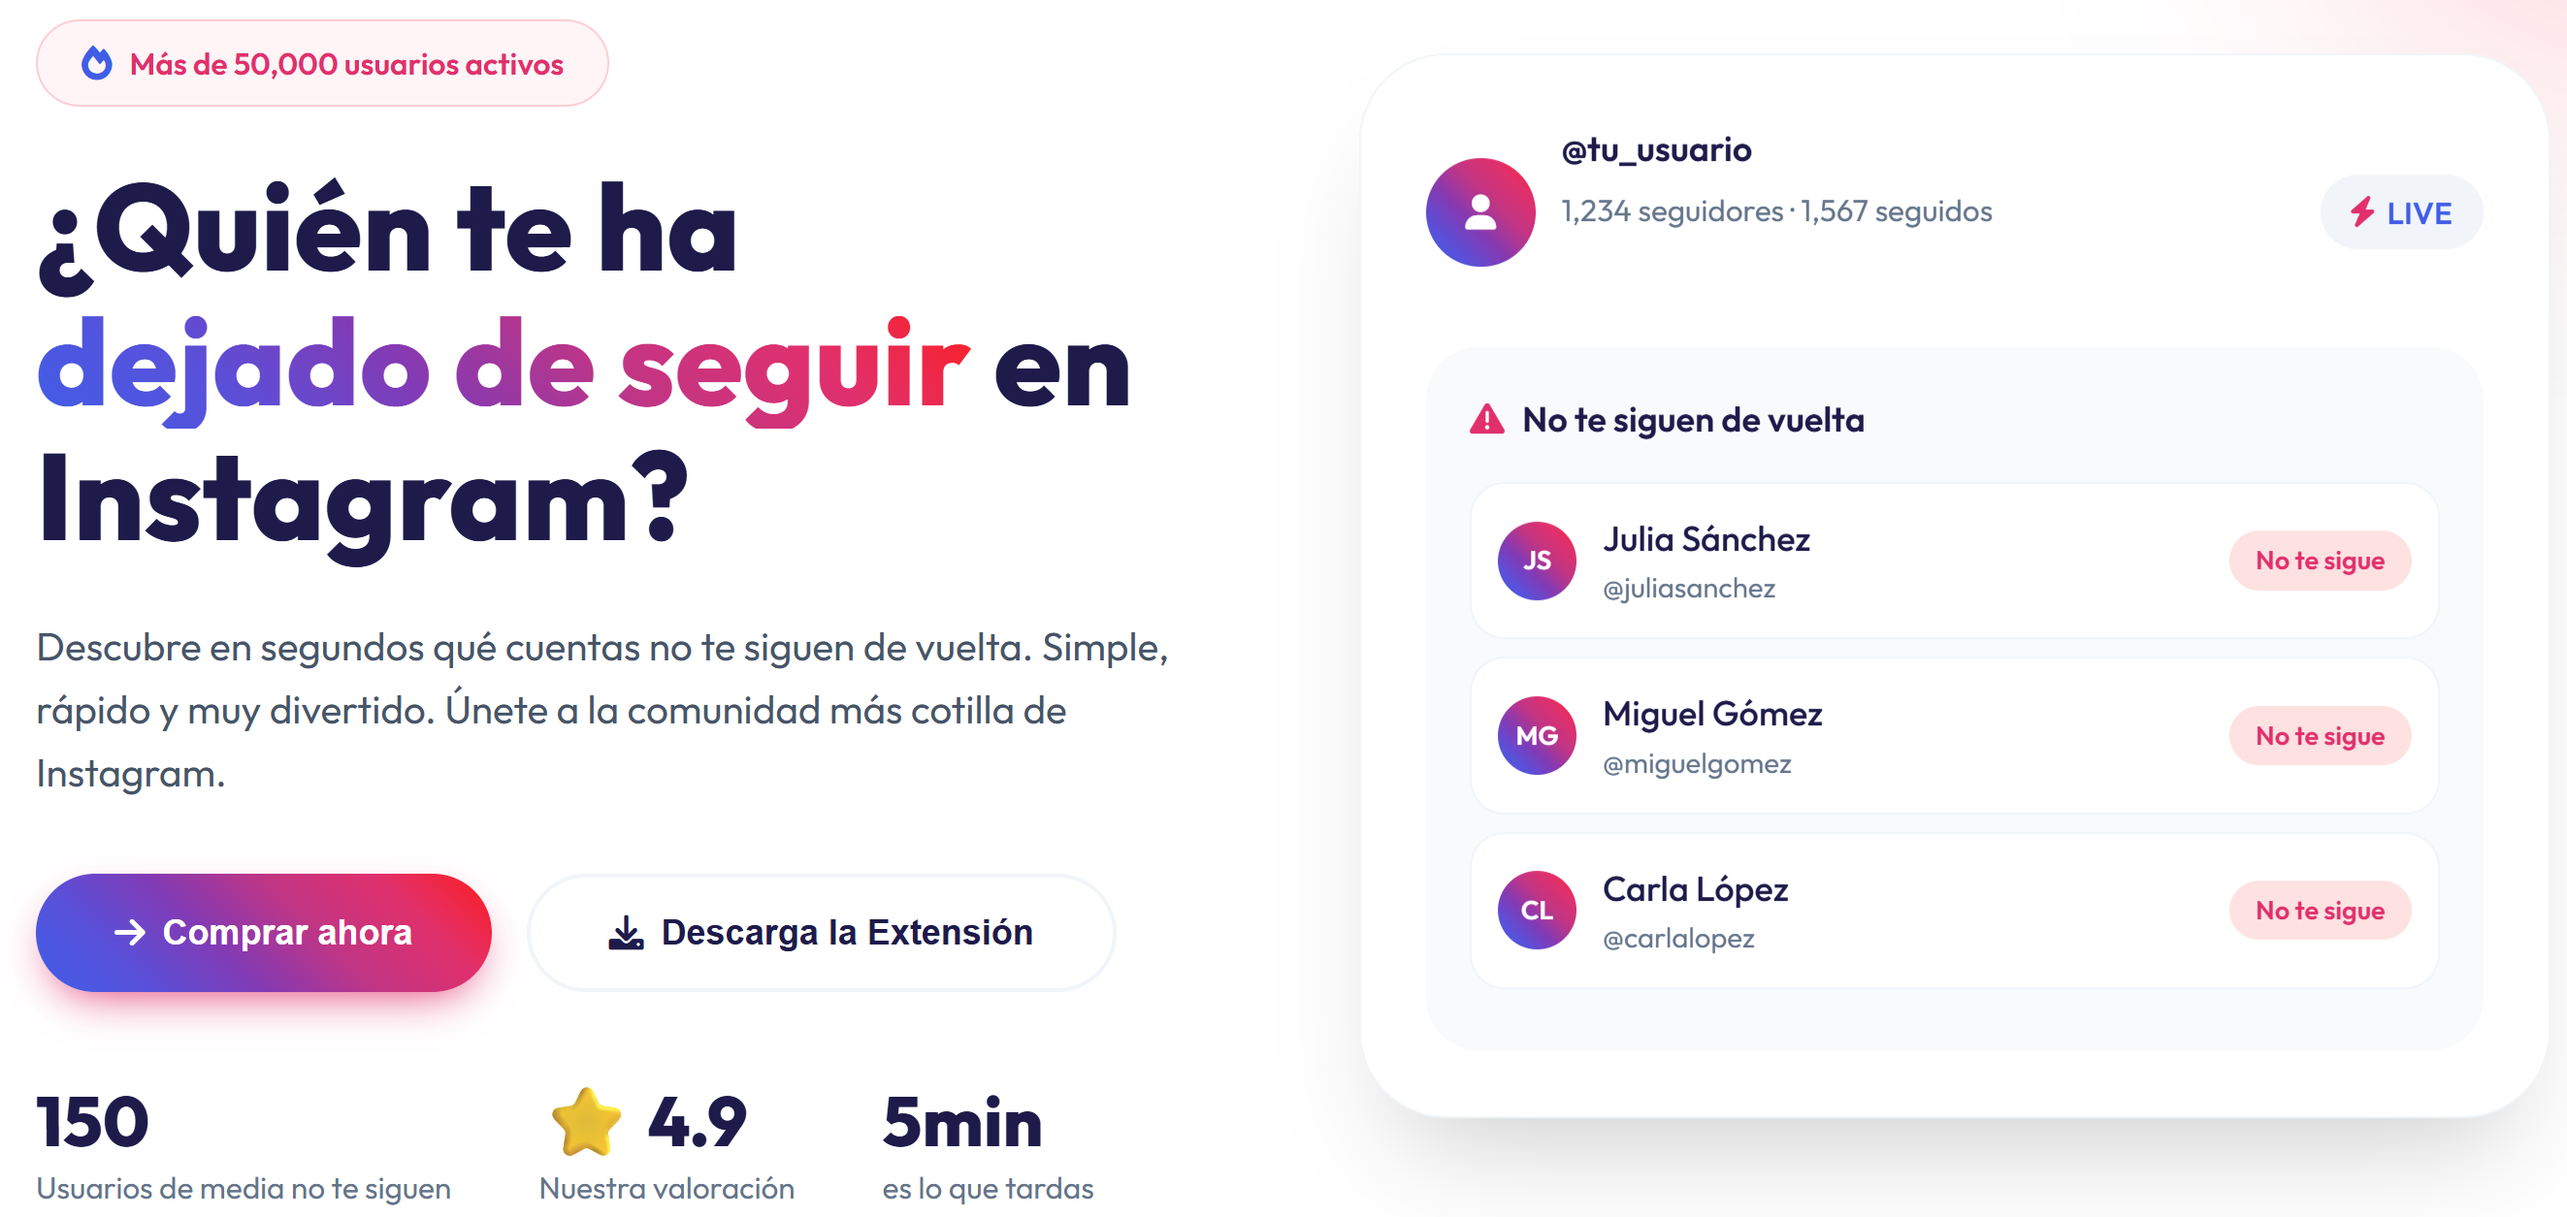
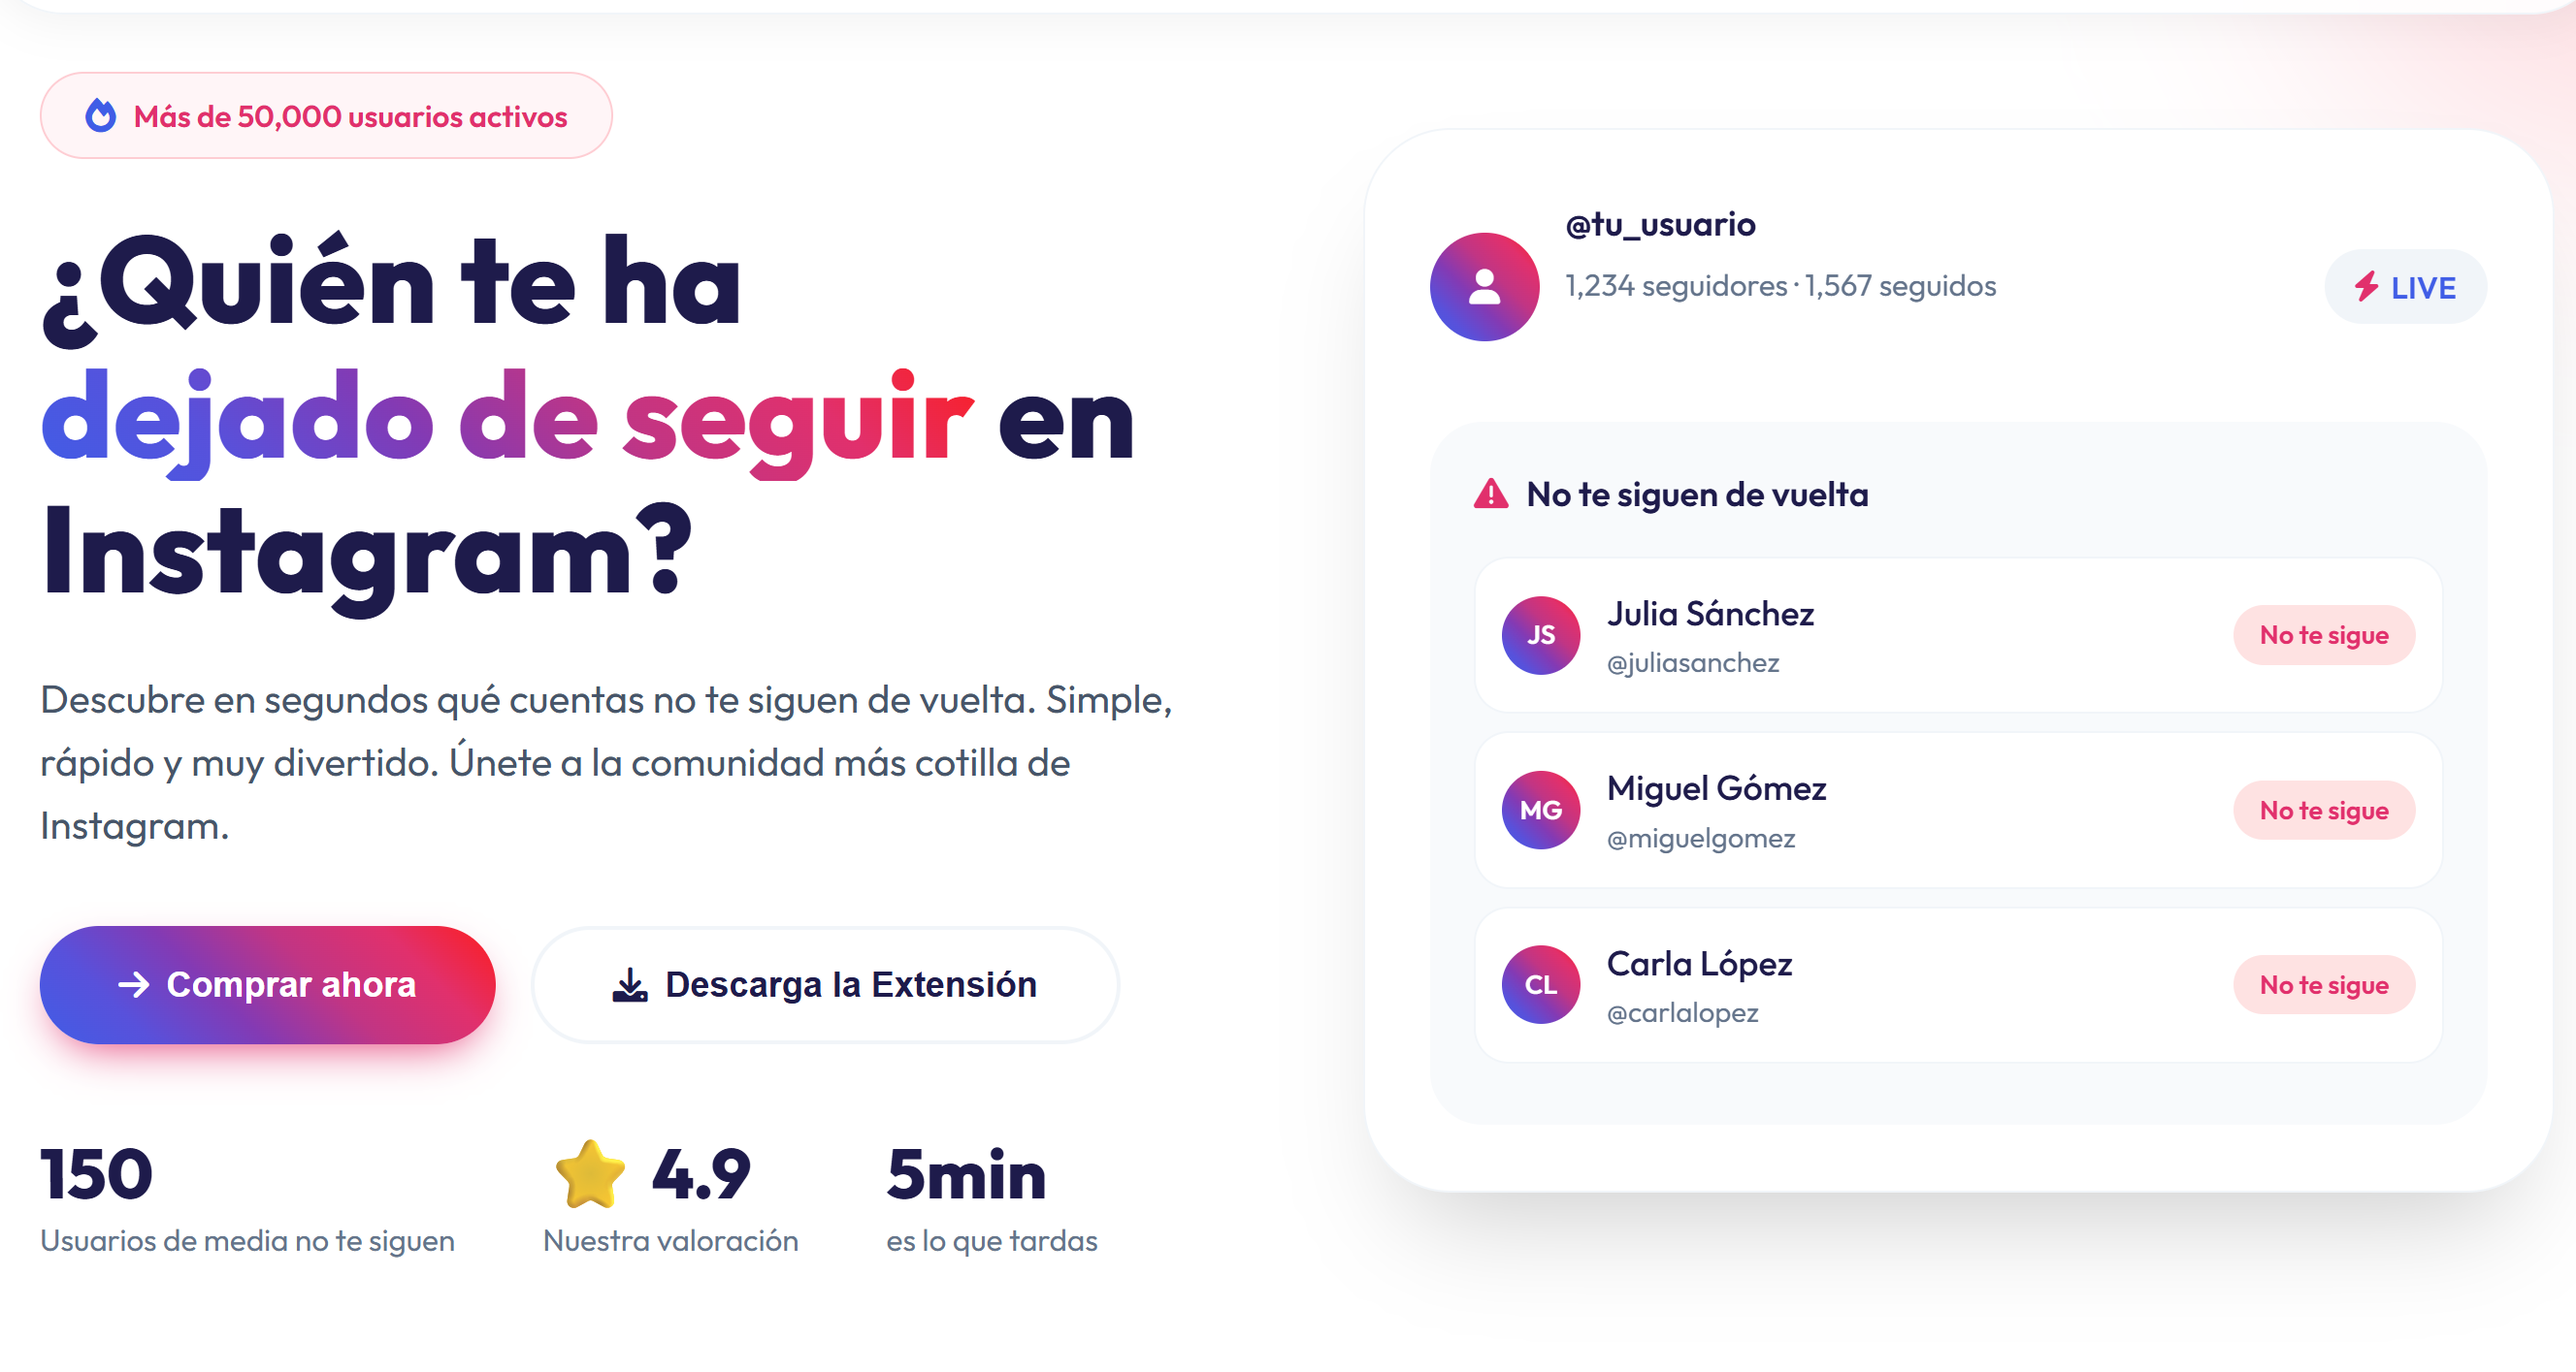
publi

diff --git a/src/pages/Home.tsx b/src/pages/Home.tsx
@@ -7,10 +7,10 @@ import { useAuth } from '../contexts/AuthContext';
 const ads = [
   { id: 1, image: '/sponsors/dental-fresh-plus-hrz.jpeg', link: '#' },
   { id: 2, image: '/sponsors/trend-sport-hrz.png', link: '#' },
-  { id: 3, image: '/sponsors/EMPRENDE-CONMIGO-TREND-SPORT.png', link: '#' },
-  { id: 4, image: '/sponsors/trend-sport-logo.jpeg', link: '#' },
-  { id: 5, image: '/sponsors/dental.jpeg', link: '#' },
-  { id: 6, image: '/sponsors/igana.png', link: '#' },
+  { id: 3, image: '/sponsors/igana.png', link: 'https://www.igpro-analyzer.com/' },
+  { id: 4, image: '/sponsors/dental.jpeg', link: '#' },
+  { id: 5, image: '/sponsors/EMPRENDE-CONMIGO-TREND-SPORT.png', link: '#' },
+  { id: 6, image: '/sponsors/trend-sport-logo.png', link: '#' },
   { id: 7, image: '/sponsors/ig.png', link: '#' },
 ];
 
